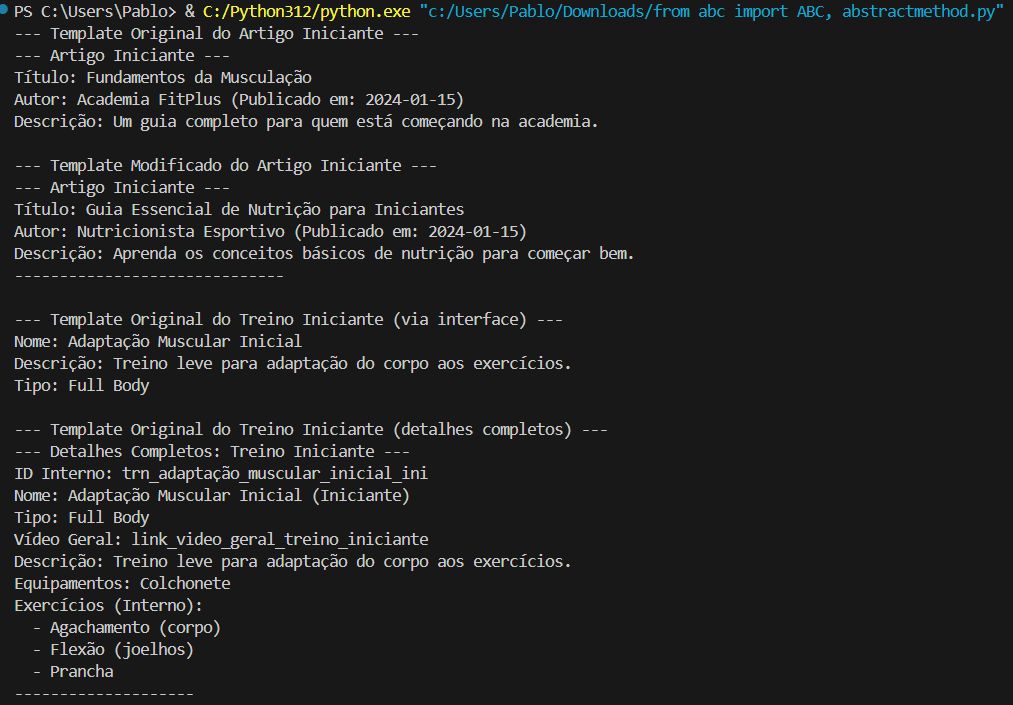
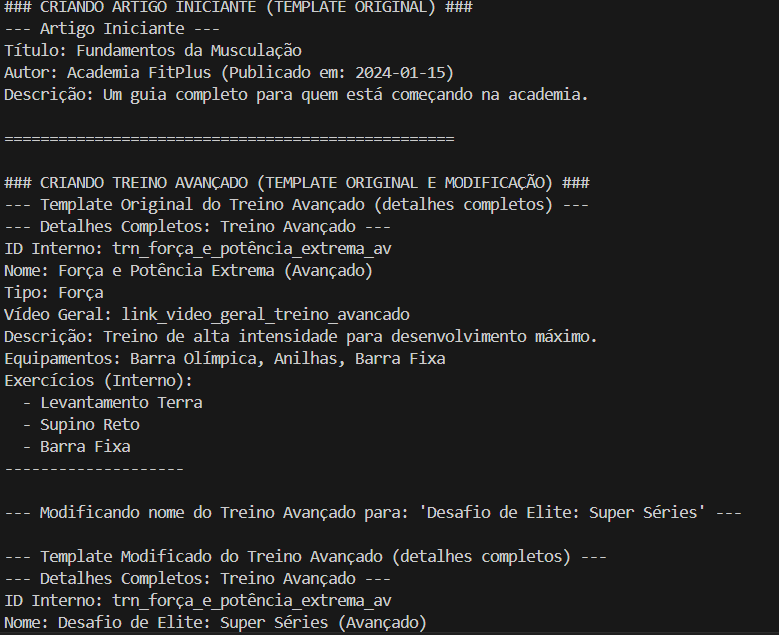
corrigindo erros

Changed region(s): [[0.0, 0.2094, 0.7702, 1.0], [0.0, 0.0, 0.9859, 0.1795], [0.7702, 0.778, 0.8935, 0.8378]]

diff --git a/Celula01/codigo_do_abstractFactory/AbstractFactory.py b/Celula01/codigo_do_abstractFactory/AbstractFactory.py
@@ -334,52 +334,55 @@ class ConteudoRepository:
         print(f"Treino '{nome}' não encontrado para remoção.")
         return False
 
-# ----- Exemplo de Uso-----
+# ----- Exemplo de Uso -----
+
 if __name__ == "__main__":
     repo = ConteudoRepository()
     iniciante_factory = InicianteConteudoFactory()
+    avancado_factory = AvancadoConteudoFactory()
     
-    # Criar um artigo template e modificá-lo
-    artigo_template_iniciante = iniciante_factory.createArtigo()
-    print("--- Template Original do Artigo Iniciante ---")
-    artigo_template_iniciante.exibir()
+    # 1. Criar um artigo de iniciante (usado como template original)
+    print("### CRIANDO ARTIGO INICIANTE (TEMPLATE ORIGINAL) ###")
+    artigo_iniciante_original = iniciante_factory.createArtigo()
+    artigo_iniciante_original.exibir()
+    repo.adicionarArtigo(artigo_iniciante_original)
     
-    artigo_template_iniciante.setTitulo("Guia Essencial de Nutrição para Iniciantes")
-    artigo_template_iniciante.setDescricao("Aprenda os conceitos básicos de nutrição para começar bem.")
-    artigo_template_iniciante.setAutor("Nutricionista Esportivo")
-    print("\n--- Template Modificado do Artigo Iniciante ---")
-    artigo_template_iniciante.exibir()
-    repo.adicionarArtigo(artigo_template_iniciante)
-    
-    print("-" * 30)
+    print("\n" + "=" * 50 + "\n")
 
-    # Criar um treino template e modificá-lo
-    treino_template_iniciante = iniciante_factory.createTreino()
-    print("\n--- Template Original do Treino Iniciante (via interface) ---")
-    print(f"Nome: {treino_template_iniciante.getNome()}")
-    print(f"Descrição: {treino_template_iniciante.getDescricao()}")
-    print(f"Tipo: {treino_template_iniciante.getTipoTreino()}")
+    # 2. Criar um treino avançado (template original)
+    print("### CRIANDO TREINO AVANÇADO (TEMPLATE ORIGINAL E MODIFICAÇÃO) ###")
+    treino_avancado_template = avancado_factory.createTreino()
     
-    # Para ver detalhes completos, se a instância for do tipo concreto
-    if isinstance(treino_template_iniciante, TreinoIniciante):
-        print("\n--- Template Original do Treino Iniciante (detalhes completos) ---")
-        treino_template_iniciante.exibirDetalhesCompletos()
+    # Exibir detalhes completos do template original (se for instância de TreinoAvancado)
+    if isinstance(treino_avancado_template, TreinoAvancado):
+        print("--- Template Original do Treino Avançado (detalhes completos) ---")
+        treino_avancado_template.exibirDetalhesCompletos()
 
-    treino_template_iniciante.setNome("Meu Primeiro Mês na Academia")
-    treino_template_iniciante.setDescricao("Um plano de treino para as primeiras 4 semanas, focado em adaptação.")
-    treino_template_iniciante.setTipoTreino("Adaptação Geral")
-    treino_template_iniciante.setEquipamentosNecessarios(["Halteres Leves", "Colchonete", "Banda Elástica"])
+
+    novo_nome_treino_avancado = "Desafio de Elite: Super Séries"
+    print(f"\n--- Modificando nome do Treino Avançado para: '{novo_nome_treino_avancado}' ---")
+    treino_avancado_template.setNome(novo_nome_treino_avancado)
     
 
-    print("\n--- Template Modificado do Treino Iniciante (via interface) ---")
-    print(f"Nome: {treino_template_iniciante.getNome()}")
-    print(f"Descrição: {treino_template_iniciante.getDescricao()}")
-    print(f"Tipo: {treino_template_iniciante.getTipoTreino()}")
+    if isinstance(treino_avancado_template, TreinoAvancado):
+        print("\n--- Template Modificado do Treino Avançado (detalhes completos) ---")
+        treino_avancado_template.exibirDetalhesCompletos()
     
-    if isinstance(treino_template_iniciante, TreinoIniciante):
-        print("\n--- Template Modificado do Treino Iniciante (detalhes completos) ---")
-        treino_template_iniciante.exibirDetalhesCompletos()
-    repo.adicionarTreino(treino_template_iniciante)
 
-    print(f"\nTotal de artigos no repo: {len(repo.listarTodosArtigos())}")
-    print(f"Total de treinos no repo: {len(repo.listarTodosTreinos())}")
+    repo.adicionarTreino(treino_avancado_template)
+
+    print("\n" + "=" * 50)
+    print("\n--- Conteúdo Final no Repositório ---")
+    print(f"Total de artigos no repo: {len(repo.listarTodosArtigos())}")
+    for artigo in repo.listarTodosArtigos():
+        print(f"  - Artigo: {artigo.getTitulo()} por {artigo.getAutor()}")
+    
+    print(f"\nTotal de treinos no repo: {len(repo.listarTodosTreinos())}")
+    for treino in repo.listarTodosTreinos():
+        print(f"  - Treino: {treino.getNome()} (Nível: {treino.getNivelDificuldade()})")
+      
+        if isinstance(treino, TreinoAvancado):
+             print("    Detalhes via método da classe concreta:")
+             treino.exibirDetalhesCompletos() 
+        elif isinstance(treino, TreinoIniciante):
+             treino.exibirDetalhesCompletos()
